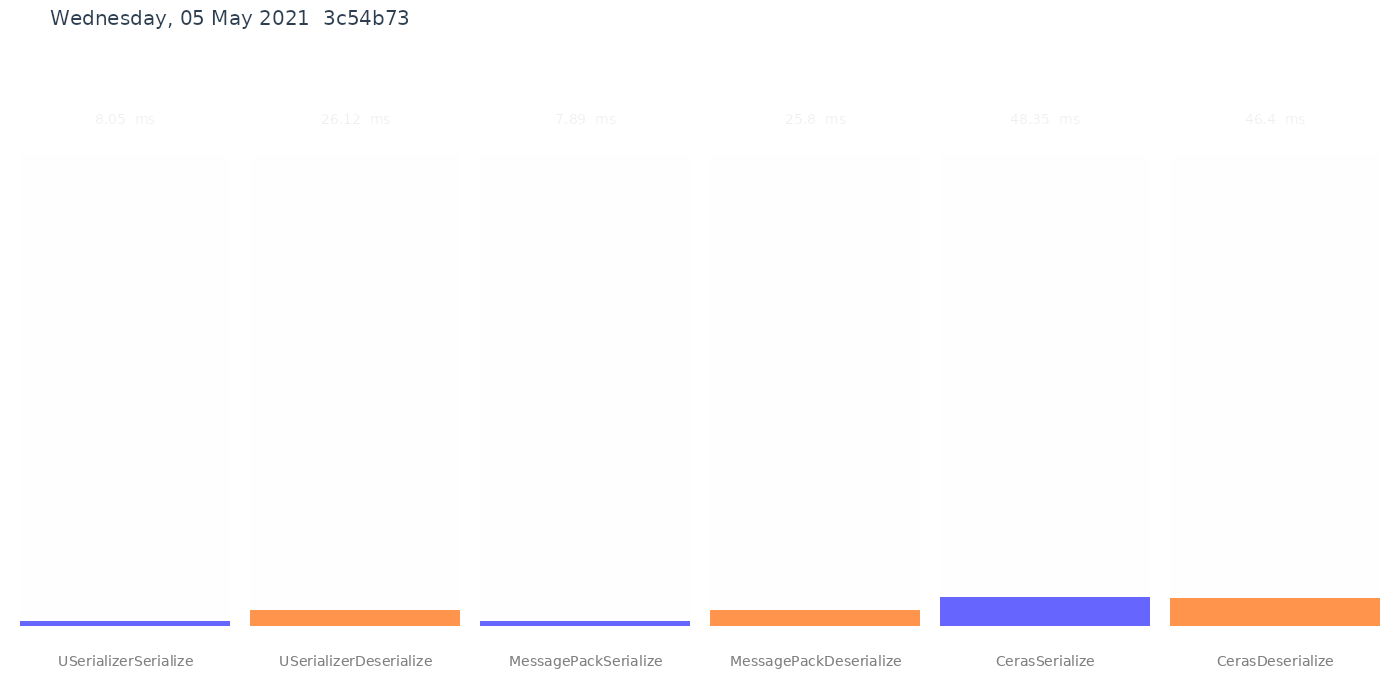
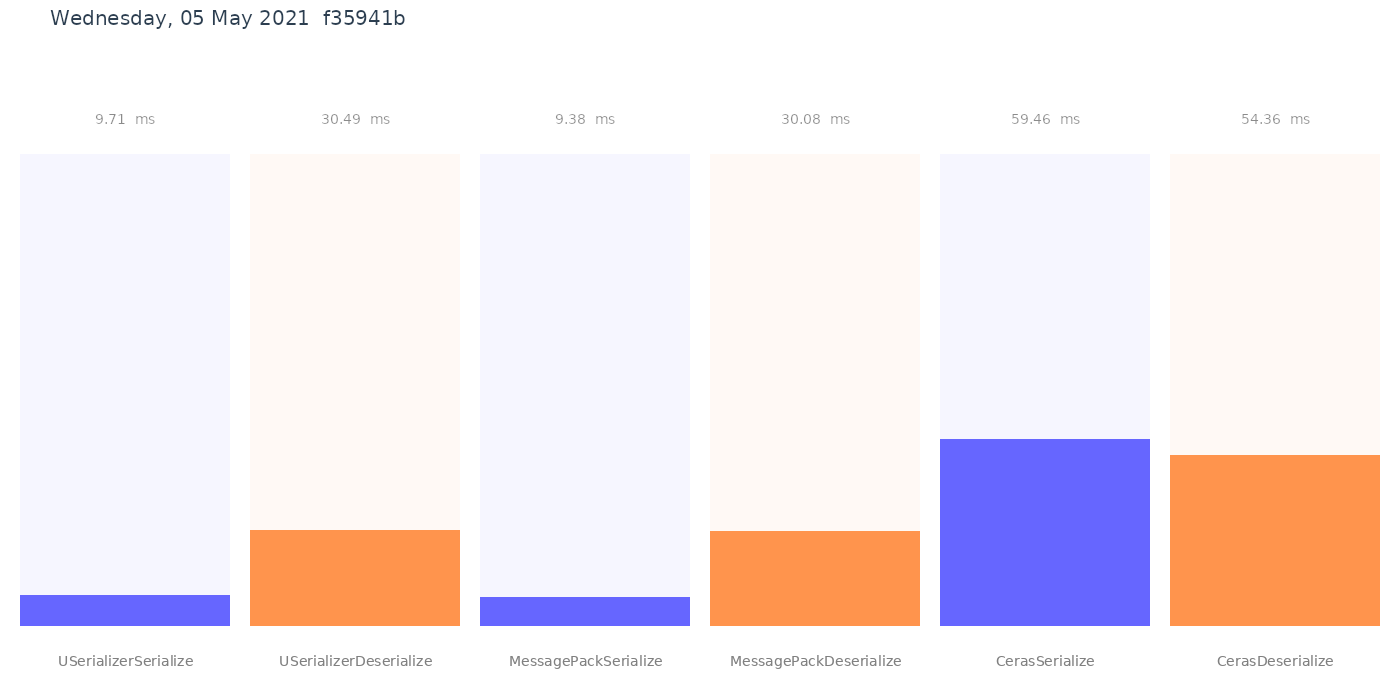
deploy: f35941be436a34a8cd6a0bb5f9e85b45f0c0cda9

diff --git a/performance.md b/performance.md
@@ -1,7 +1,7 @@
 ``` ini
 
 BenchmarkDotNet=v0.12.1, OS=ubuntu 20.04
-Intel Xeon Platinum 8272CL CPU 2.60GHz, 1 CPU, 2 logical and 2 physical cores
+Intel Xeon Platinum 8171M CPU 2.60GHz, 1 CPU, 2 logical and 2 physical cores
 .NET Core SDK=5.0.202
   [Host]   : .NET Core 5.0.5 (CoreCLR 5.0.521.16609, CoreFX 5.0.521.16609), X64 RyuJIT
   ShortRun : .NET Core 5.0.5 (CoreCLR 5.0.521.16609, CoreFX 5.0.521.16609), X64 RyuJIT
@@ -12,9 +12,9 @@ WarmupCount=3
 ```
 |                 Method |      Mean |     Error |    StdDev |
 |----------------------- |----------:|----------:|----------:|
-|   USerializerSerialize |  8.050 ms | 0.0844 ms | 0.0046 ms |
-| USerializerDeserialize | 26.120 ms | 3.2857 ms | 0.1801 ms |
-|   MessagePackSerialize |  7.891 ms | 0.2715 ms | 0.0149 ms |
-| MessagePackDeserialize | 25.805 ms | 1.6311 ms | 0.0894 ms |
-|         CerasSerialize | 48.350 ms | 1.4095 ms | 0.0773 ms |
-|       CerasDeserialize | 46.397 ms | 2.2271 ms | 0.1221 ms |
+|   USerializerSerialize |  9.709 ms | 0.8107 ms | 0.0444 ms |
+| USerializerDeserialize | 30.491 ms | 3.5116 ms | 0.1925 ms |
+|   MessagePackSerialize |  9.378 ms | 0.0703 ms | 0.0039 ms |
+| MessagePackDeserialize | 30.077 ms | 0.9081 ms | 0.0498 ms |
+|         CerasSerialize | 59.456 ms | 1.1417 ms | 0.0626 ms |
+|       CerasDeserialize | 54.357 ms | 2.1160 ms | 0.1160 ms |
